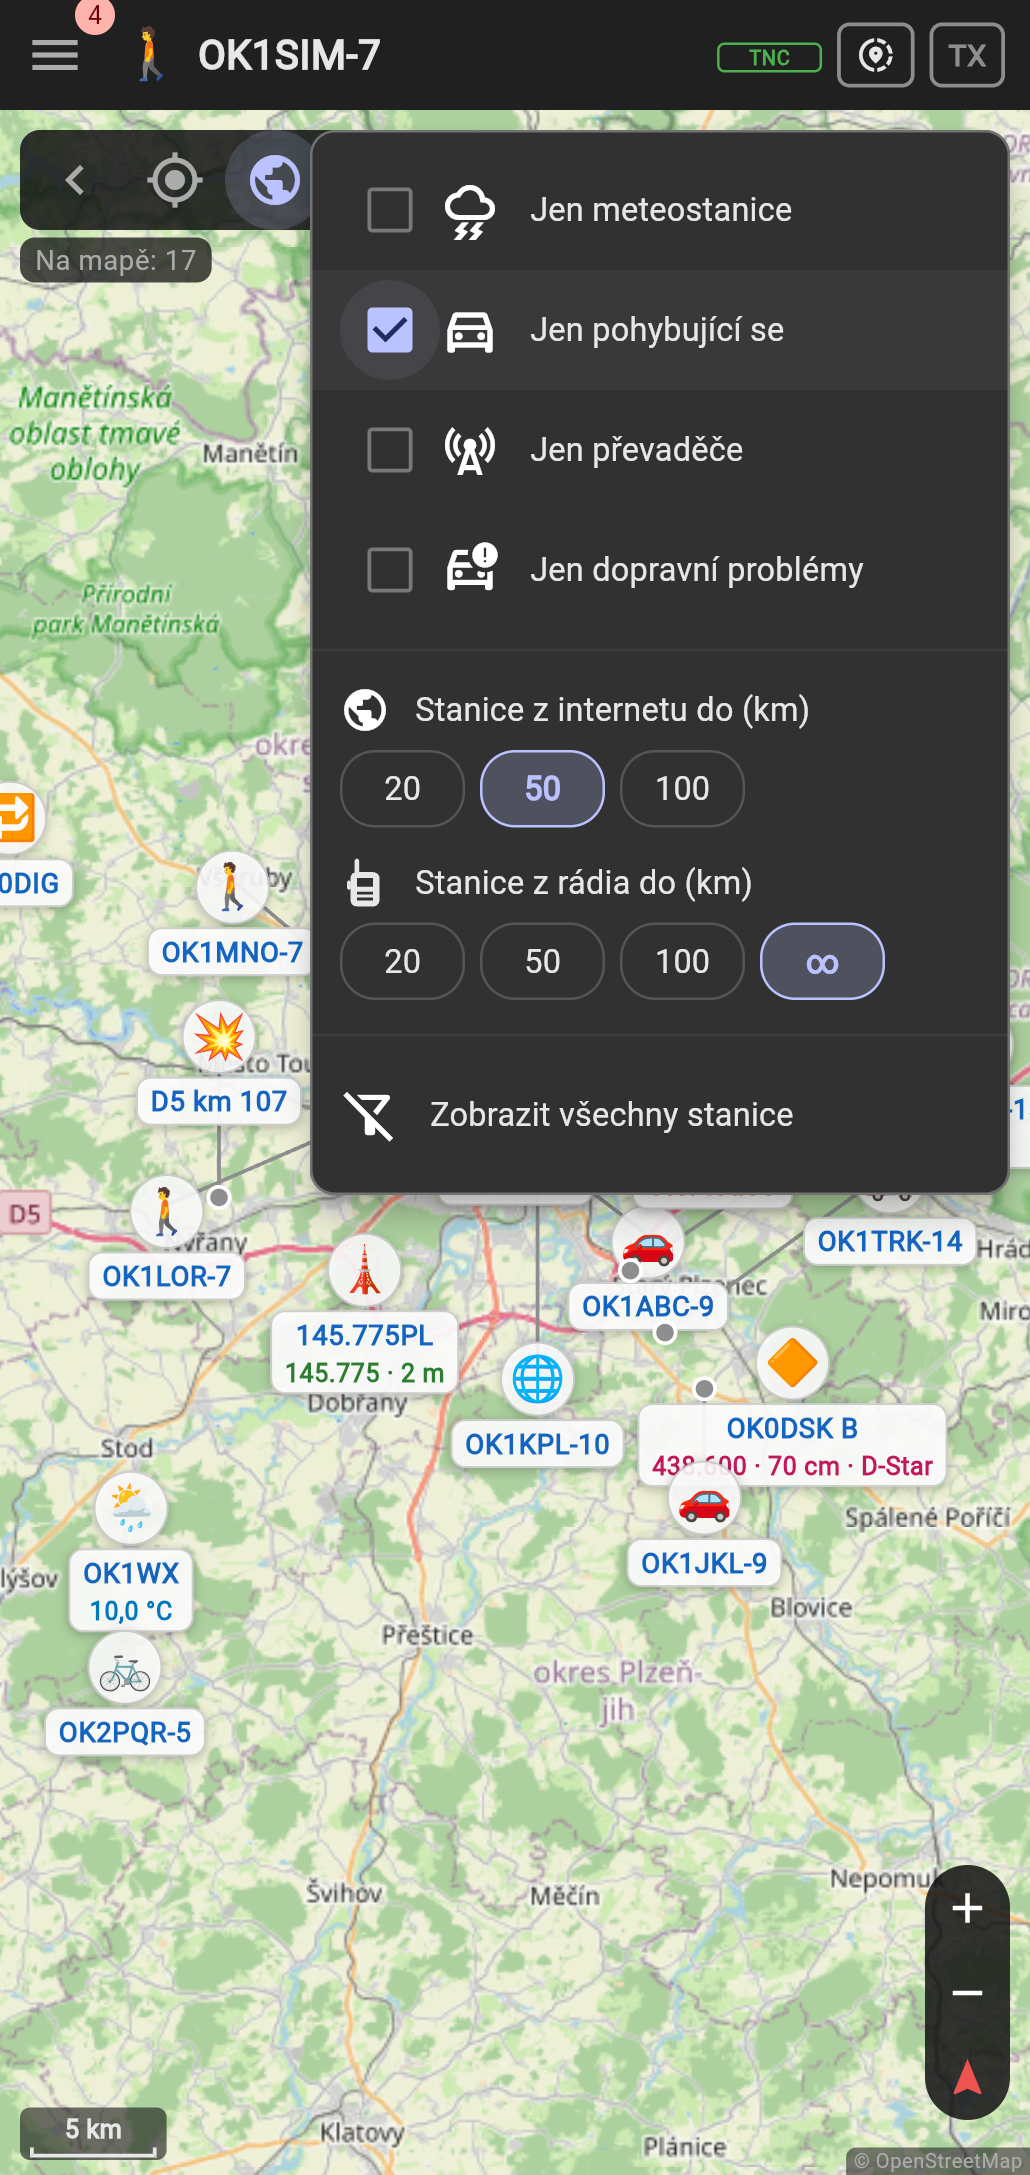
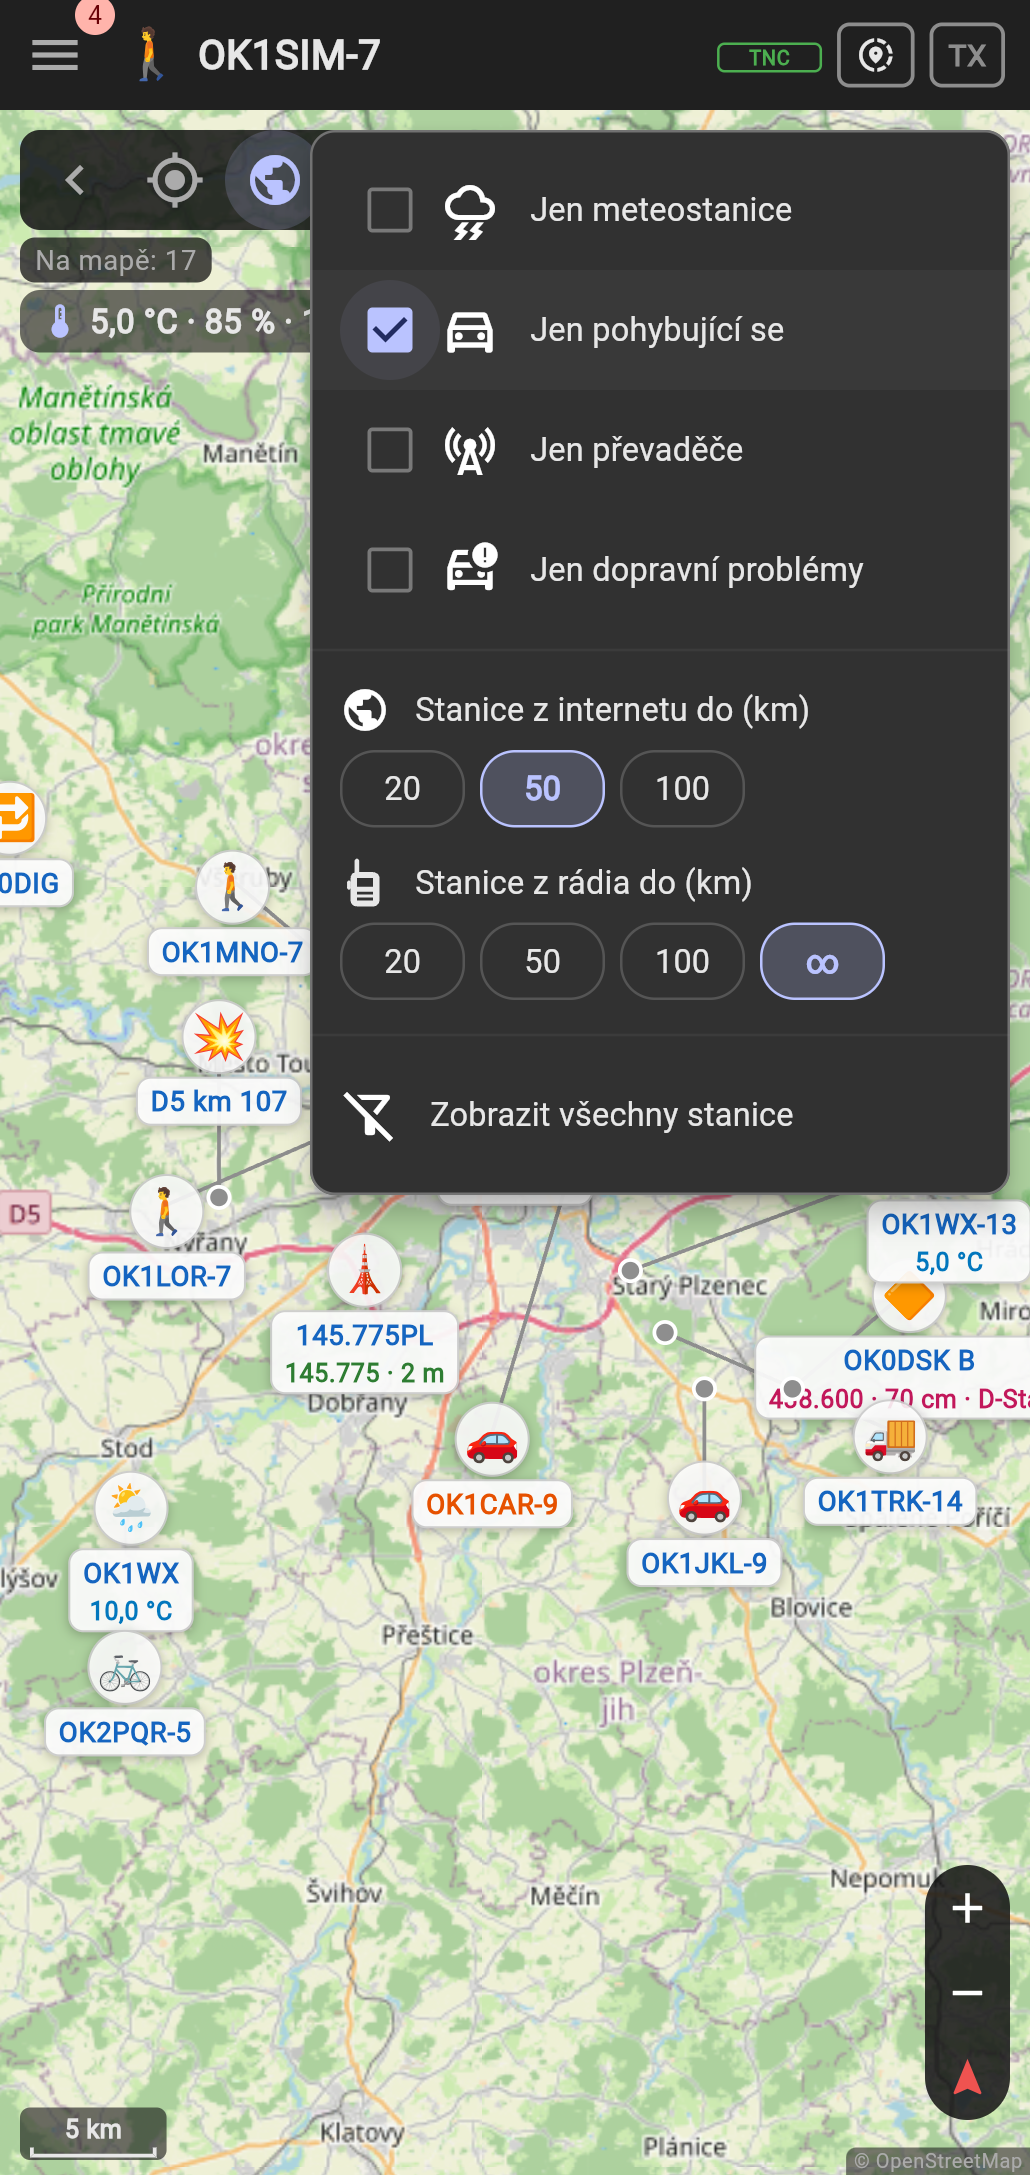
Map: a moved station's dot never under another station's symbol
Claude-Session: https://claude.ai/code/session_01BqYfmtN7b2LQX5V1LUt362

Changed region(s): [[0.4039, 0.4929, 1.0, 0.7085], [0.0, 0.1232, 0.3107, 0.1848]]

diff --git a/src/aprs_kiss_app/declutter.py b/src/aprs_kiss_app/declutter.py
@@ -18,7 +18,11 @@ CLOSE_Y = 48  # …and this one above the other cover each other's label
 RINGS = (54, 78, 104, 132, 160)  # pixels: the circles tried around a station's own place
 DIRECTIONS = 12
 MAX_SHIFT = RINGS[-1]
-SAME_PX = 10  # closer than this on screen: one place (a digi and an iGate on one mast)
+# Closer than this on screen (side by side, one above the other): as good as one place. One of them staying
+# would cover the other's dot with its symbol (the disc sits above the point) or the top of its tag, and the
+# dot would look like the first station's; so neither stays.
+SAME_X = 34
+SAME_Y = 32
 MIN_ZOOM = 9.0  # further out (a whole region) the markers stay where they are: spreading would be a web of lines
 
 
@@ -72,17 +76,17 @@ def spread(points: list[tuple[float, float]], zoom: float, fixed: int | None = N
         grid.setdefault((int(x // CLOSE_X), int(y // CLOSE_Y)), []).append((x, y))
 
     px = [to_px(*pt, zoom) for pt in points]
-    # Several stations at one place: none of them stays on it. The place itself is kept free for the dot
+    # Several stations at one place (or nearly, see SAME_X / SAME_Y): none of them stays on it. The place itself is kept free for the dot
     # the lines point to, otherwise the first station's marker covered it and nobody could tell where
     # the group really is.
     shared = set()
     cells: dict[tuple[int, int], list[int]] = {}
     for i, (x, y) in enumerate(px):
-        cx, cy = int(x // SAME_PX), int(y // SAME_PX)
+        cx, cy = int(x // SAME_X), int(y // SAME_Y)
         for dx in (-1, 0, 1):
             for dy in (-1, 0, 1):
                 for j in cells.get((cx + dx, cy + dy), ()):
-                    if abs(px[j][0] - x) < SAME_PX and abs(px[j][1] - y) < SAME_PX:
+                    if abs(px[j][0] - x) < SAME_X and abs(px[j][1] - y) < SAME_Y:
                         shared.update((i, j))
         cells.setdefault((cx, cy), []).append(i)
     if fixed in shared:

diff --git a/tests/test_declutter.py b/tests/test_declutter.py
@@ -56,6 +56,25 @@ class DeclutterTest(unittest.TestCase):
                     self.assertFalse(overlap(shown[i], shown[j], 14), (n, i, j))
 
 
+    def test_a_moved_stations_dot_is_not_under_another_symbol(self):
+        """OK1KUN-1 and OK1KUN-2 a little apart (not one place): the one that stayed covered the other's dot."""
+        zoom = 13
+        x, y = to_px(49.6600, 13.2300, zoom)
+        for dx, dy in ((0, -20), (8, -25), (15, 10), (-25, 0)):
+            points = [(49.6600, 13.2300), from_px(x + dx, y + dy, zoom)]
+            shown = spread(points, zoom)
+            for i, real in enumerate(points):
+                if shown[i] == real:
+                    continue  # not moved: no dot
+                rx, ry = to_px(*real, zoom)
+                for j, at in enumerate(shown):
+                    if j == i:
+                        continue
+                    sx, sy = to_px(*at, zoom)
+                    disc = (sx, sy - 13)  # the symbol's disc is above the marker's point
+                    self.assertGreater(math.hypot(rx - disc[0], ry - disc[1]), 18, (dx, dy, i, j))
+
+
 if __name__ == "__main__":
     unittest.main()
 

diff --git a/CHANGELOG.md b/CHANGELOG.md
@@ -6,6 +6,9 @@ Stable versions are 1.0.0, 1.1.0, 1.2.0 …; between them come **betas** (1.0.1,
 
 ## Unreleased
 
+- **Map: the grey dot no longer sits inside another station's symbol.** Two stations a little apart (not at
+  one place, e.g. OK1KUN-1 and OK1KUN-2) – one stayed, and the other one's dot (where it really is) fell on the
+  first one's symbol. Now both move aside, as stations at one place do.
 - **A tap on the temperature around you** lists the weather stations it is the average of – nearest first, each
   with its temperature, humidity and pressure, how far and in which direction, how old; a tap on one opens it.
 

diff --git a/src/aprs_kiss_app/CHANGELOG.md b/src/aprs_kiss_app/CHANGELOG.md
@@ -6,6 +6,9 @@ Stable versions are 1.0.0, 1.1.0, 1.2.0 …; between them come **betas** (1.0.1,
 
 ## Unreleased
 
+- **Map: the grey dot no longer sits inside another station's symbol.** Two stations a little apart (not at
+  one place, e.g. OK1KUN-1 and OK1KUN-2) – one stayed, and the other one's dot (where it really is) fell on the
+  first one's symbol. Now both move aside, as stations at one place do.
 - **A tap on the temperature around you** lists the weather stations it is the average of – nearest first, each
   with its temperature, humidity and pressure, how far and in which direction, how old; a tap on one opens it.
 
